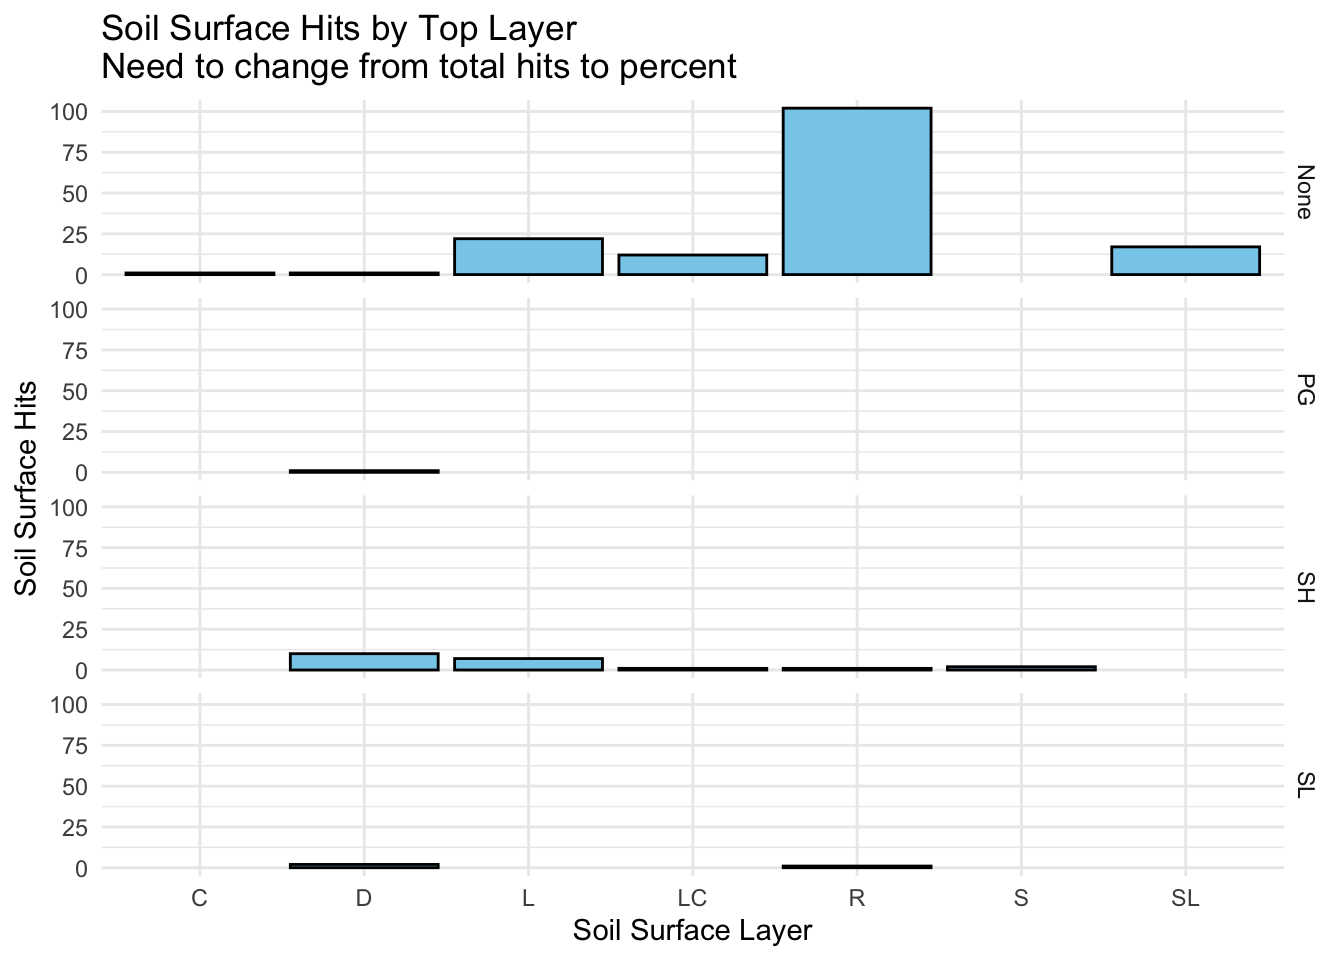
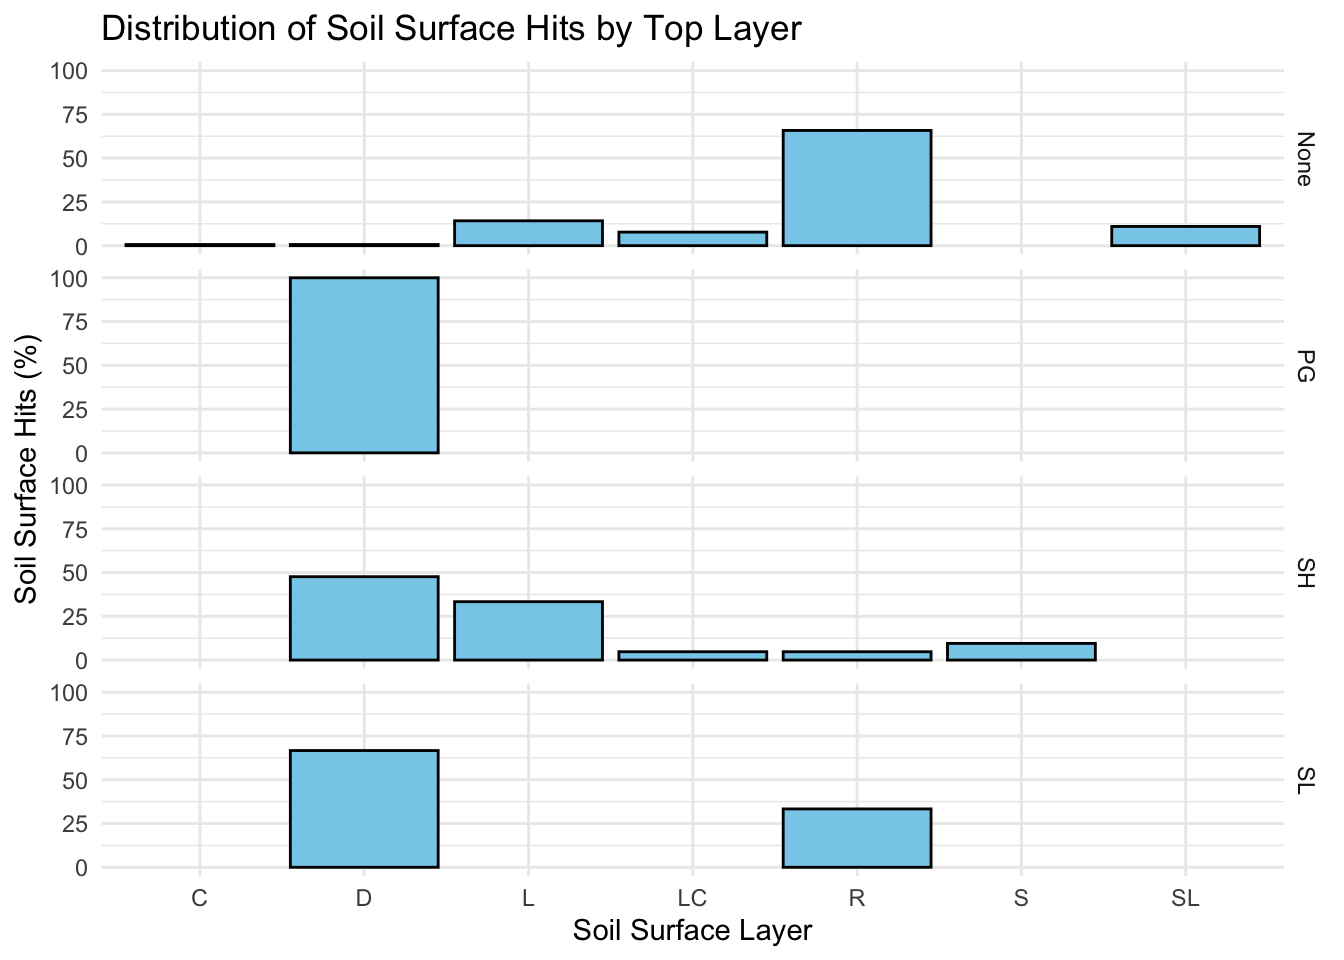
code: update surface layer hit calculations

diff --git a/code/2024_DBG_prelim_analyses.html b/code/2024_DBG_prelim_analyses.html
@@ -238,38 +238,39 @@ pre > code.sourceCode > span > a:first-child::before { text-decoration: underlin
 <div class="sourceCode cell-code" id="cb17"><pre class="sourceCode r code-with-copy"><code class="sourceCode r"><span id="cb17-1"><a href="#cb17-1" aria-hidden="true" tabindex="-1"></a>Top_v_Surface_sum <span class="ot">&lt;-</span> LPI_L2 <span class="sc">|&gt;</span></span>
 <span id="cb17-2"><a href="#cb17-2" aria-hidden="true" tabindex="-1"></a>  <span class="fu">group_by</span>(TopLayer, SoilSurface) <span class="sc">|&gt;</span></span>
 <span id="cb17-3"><a href="#cb17-3" aria-hidden="true" tabindex="-1"></a>  <span class="fu">summarise</span>(<span class="at">count =</span> <span class="fu">n</span>()) <span class="sc">|&gt;</span></span>
-<span id="cb17-4"><a href="#cb17-4" aria-hidden="true" tabindex="-1"></a>  <span class="fu">mutate</span>(<span class="at">TopLayerTotal =</span> <span class="fu">sum</span>(count)) </span></code><button title="Copy to Clipboard" class="code-copy-button"><i class="bi"></i></button></pre></div>
+<span id="cb17-4"><a href="#cb17-4" aria-hidden="true" tabindex="-1"></a>  <span class="fu">mutate</span>(<span class="at">TopLayerTotal =</span> <span class="fu">sum</span>(count),</span>
+<span id="cb17-5"><a href="#cb17-5" aria-hidden="true" tabindex="-1"></a>         <span class="at">pct_surface_hits =</span> count<span class="sc">/</span>TopLayerTotal <span class="sc">*</span><span class="dv">100</span>) </span></code><button title="Copy to Clipboard" class="code-copy-button"><i class="bi"></i></button></pre></div>
 <div class="cell-output cell-output-stderr">
 <pre><code>`summarise()` has grouped output by 'TopLayer'. You can override using the
 `.groups` argument.</code></pre>
 </div>
 <div class="sourceCode cell-code" id="cb19"><pre class="sourceCode r code-with-copy"><code class="sourceCode r"><span id="cb19-1"><a href="#cb19-1" aria-hidden="true" tabindex="-1"></a><span class="fu">print</span>(Top_v_Surface_sum)</span></code><button title="Copy to Clipboard" class="code-copy-button"><i class="bi"></i></button></pre></div>
 <div class="cell-output cell-output-stdout">
-<pre><code># A tibble: 14 × 4
+<pre><code># A tibble: 14 × 5
 # Groups:   TopLayer [4]
-   TopLayer SoilSurface count TopLayerTotal
-   &lt;chr&gt;    &lt;chr&gt;       &lt;int&gt;         &lt;int&gt;
- 1 None     C               1           155
- 2 None     D               1           155
- 3 None     L              22           155
- 4 None     LC             12           155
- 5 None     R             102           155
- 6 None     SL             17           155
- 7 PG       D               1             1
- 8 SH       D              10            21
- 9 SH       L               7            21
-10 SH       LC              1            21
-11 SH       R               1            21
-12 SH       S               2            21
-13 SL       D               2             3
-14 SL       R               1             3</code></pre>
+   TopLayer SoilSurface count TopLayerTotal pct_surface_hits
+   &lt;chr&gt;    &lt;chr&gt;       &lt;int&gt;         &lt;int&gt;            &lt;dbl&gt;
+ 1 None     C               1           155            0.645
+ 2 None     D               1           155            0.645
+ 3 None     L              22           155           14.2  
+ 4 None     LC             12           155            7.74 
+ 5 None     R             102           155           65.8  
+ 6 None     SL             17           155           11.0  
+ 7 PG       D               1             1          100    
+ 8 SH       D              10            21           47.6  
+ 9 SH       L               7            21           33.3  
+10 SH       LC              1            21            4.76 
+11 SH       R               1            21            4.76 
+12 SH       S               2            21            9.52 
+13 SL       D               2             3           66.7  
+14 SL       R               1             3           33.3  </code></pre>
 </div>
 <div class="sourceCode cell-code" id="cb21"><pre class="sourceCode r code-with-copy"><code class="sourceCode r"><span id="cb21-1"><a href="#cb21-1" aria-hidden="true" tabindex="-1"></a>Top_v_Surface_plot <span class="ot">&lt;-</span> <span class="fu">ggplot</span>(Top_v_Surface_sum, <span class="fu">aes</span>(<span class="at">x =</span> SoilSurface,</span>
-<span id="cb21-2"><a href="#cb21-2" aria-hidden="true" tabindex="-1"></a>                                                <span class="at">y =</span> count)) <span class="sc">+</span></span>
+<span id="cb21-2"><a href="#cb21-2" aria-hidden="true" tabindex="-1"></a>                                                <span class="at">y =</span> pct_surface_hits)) <span class="sc">+</span></span>
 <span id="cb21-3"><a href="#cb21-3" aria-hidden="true" tabindex="-1"></a>  <span class="fu">geom_col</span>(<span class="at">fill =</span> <span class="st">"skyblue"</span>, <span class="at">color =</span> <span class="st">"black"</span>) <span class="sc">+</span></span>
-<span id="cb21-4"><a href="#cb21-4" aria-hidden="true" tabindex="-1"></a>  <span class="fu">ylab</span>(<span class="st">"Soil Surface Hits"</span>) <span class="sc">+</span></span>
+<span id="cb21-4"><a href="#cb21-4" aria-hidden="true" tabindex="-1"></a>  <span class="fu">ylab</span>(<span class="st">"Soil Surface Hits (%)"</span>) <span class="sc">+</span></span>
 <span id="cb21-5"><a href="#cb21-5" aria-hidden="true" tabindex="-1"></a>  <span class="fu">xlab</span>(<span class="st">"Soil Surface Layer"</span>) <span class="sc">+</span></span>
-<span id="cb21-6"><a href="#cb21-6" aria-hidden="true" tabindex="-1"></a>  <span class="fu">ggtitle</span>(<span class="st">"Soil Surface Hits by Top Layer</span><span class="sc">\n</span><span class="st">Need to change from total hits to percent"</span>) <span class="sc">+</span></span>
+<span id="cb21-6"><a href="#cb21-6" aria-hidden="true" tabindex="-1"></a>  <span class="fu">ggtitle</span>(<span class="st">"Distribution of Soil Surface Hits by Top Layer"</span>) <span class="sc">+</span></span>
 <span id="cb21-7"><a href="#cb21-7" aria-hidden="true" tabindex="-1"></a>  <span class="fu">facet_grid</span>(<span class="at">rows =</span> <span class="fu">vars</span>(TopLayer)) <span class="sc">+</span></span>
 <span id="cb21-8"><a href="#cb21-8" aria-hidden="true" tabindex="-1"></a>  <span class="fu">theme_minimal</span>()</span>
 <span id="cb21-9"><a href="#cb21-9" aria-hidden="true" tabindex="-1"></a>Top_v_Surface_plot</span></code><button title="Copy to Clipboard" class="code-copy-button"><i class="bi"></i></button></pre></div>
